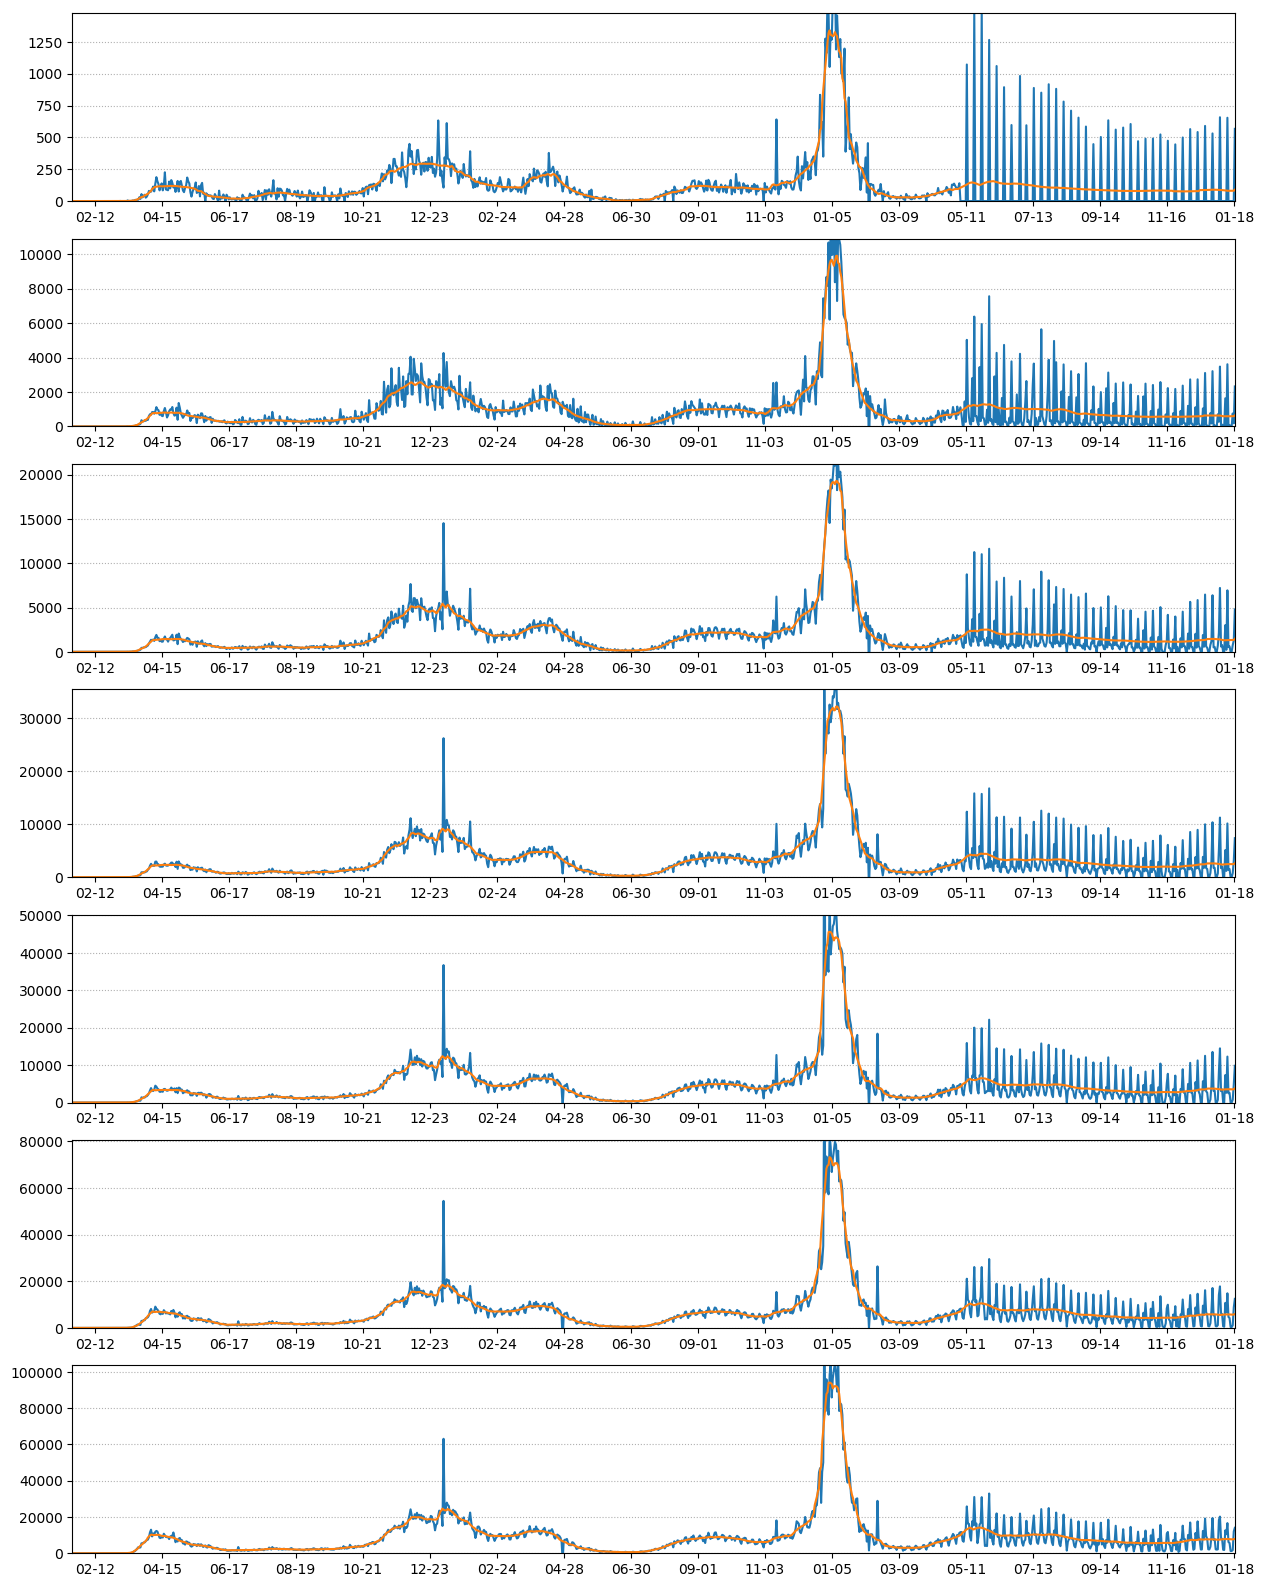
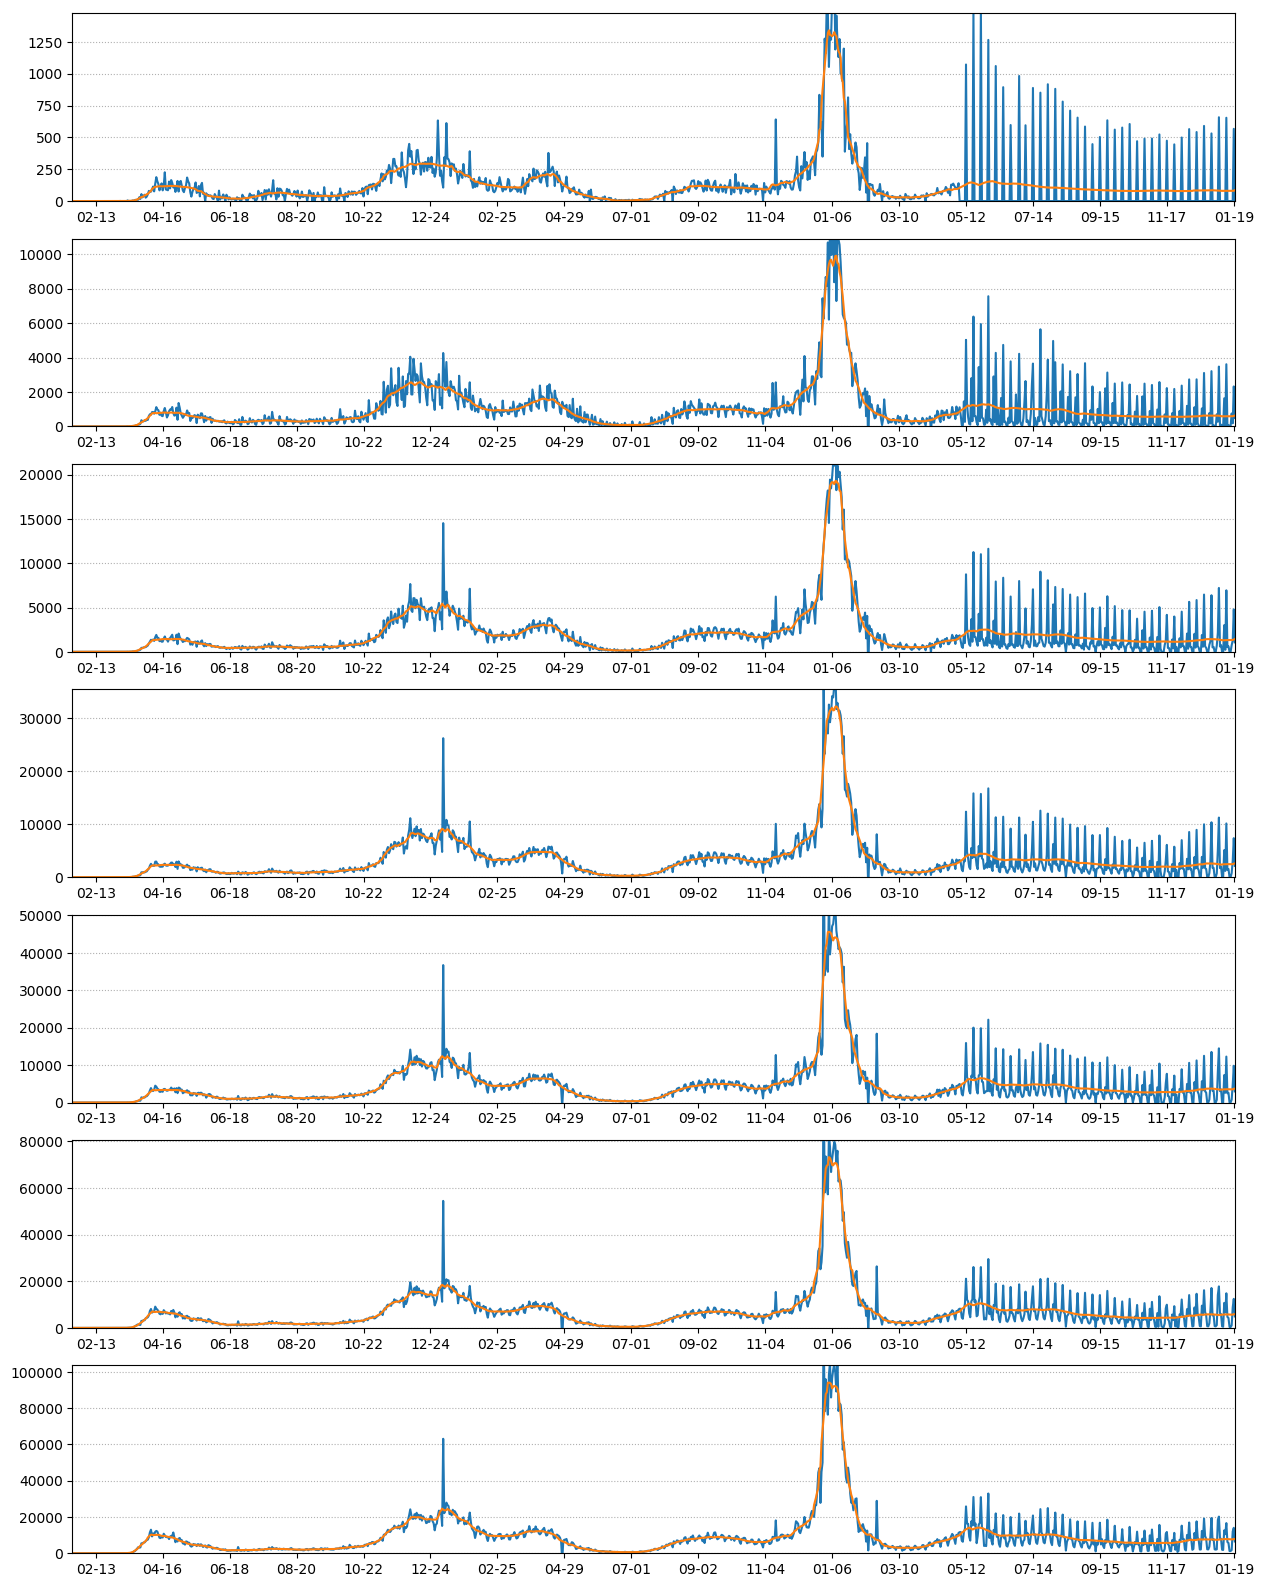
daily forecast

diff --git a/dailymessage.html b/dailymessage.html
@@ -1,45 +1,45 @@
 Delaware County COVID-19 Monitor<br>
-as of 2023-01-18<br>
+as of 2023-01-19<br>
 <table border="1" cellspacing="5" cellpadding="3">
 <tr>
 <td>0</td>
-<td>90</td>
+<td>85</td>
 <td>566747</td>
-<td>15.8</td>
+<td>14.9</td>
 </tr>
 <tr>
 <td>1</td>
-<td>640</td>
+<td>633</td>
 <td>4357104</td>
-<td>14.6</td>
+<td>14.5</td>
 </tr>
 <tr>
 <td>2</td>
-<td>1459</td>
+<td>1442</td>
 <td>8052045</td>
-<td>18.1</td>
+<td>17.9</td>
 </tr>
 <tr>
 <td>3</td>
-<td>2614</td>
+<td>2598</td>
 <td>13327166</td>
-<td>19.6</td>
+<td>19.4</td>
 </tr>
 <tr>
 <td>4</td>
-<td>3765</td>
+<td>3725</td>
 <td>18498878</td>
-<td>20.3</td>
+<td>20.1</td>
 </tr>
 <tr>
 <td>5</td>
-<td>5913</td>
+<td>5891</td>
 <td>27240755</td>
-<td>21.7</td>
+<td>21.6</td>
 </tr>
 <tr>
 <td>6</td>
-<td>7912</td>
+<td>7882</td>
 <td>34871340</td>
 <td>22.6</td>
 </tr>
